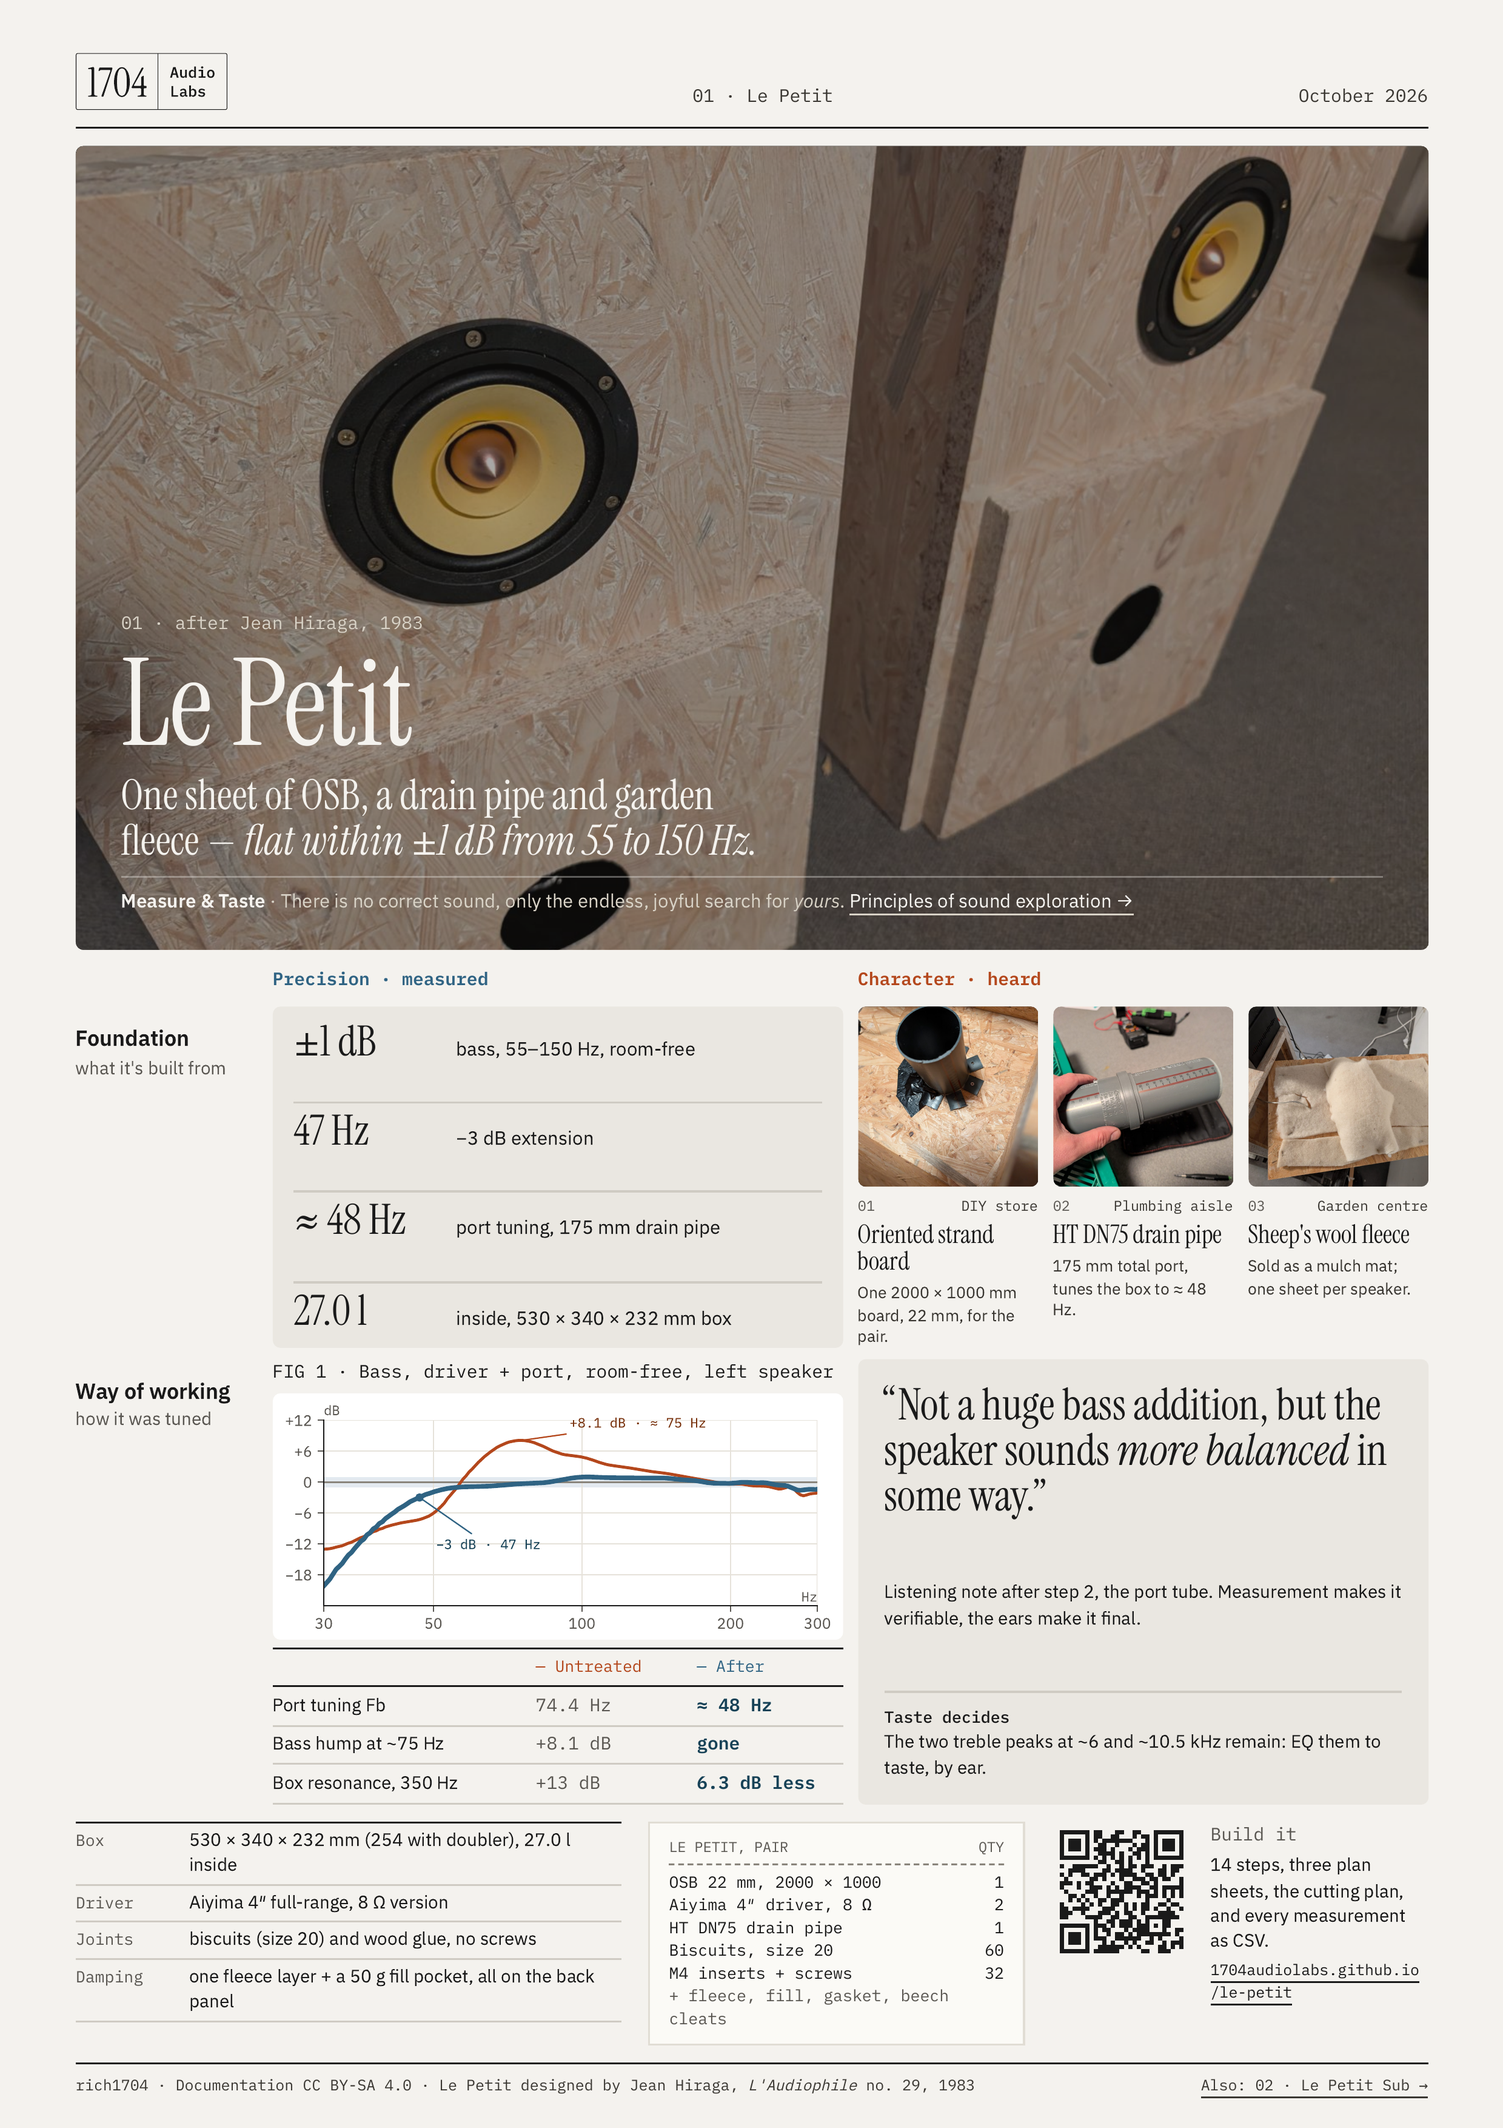
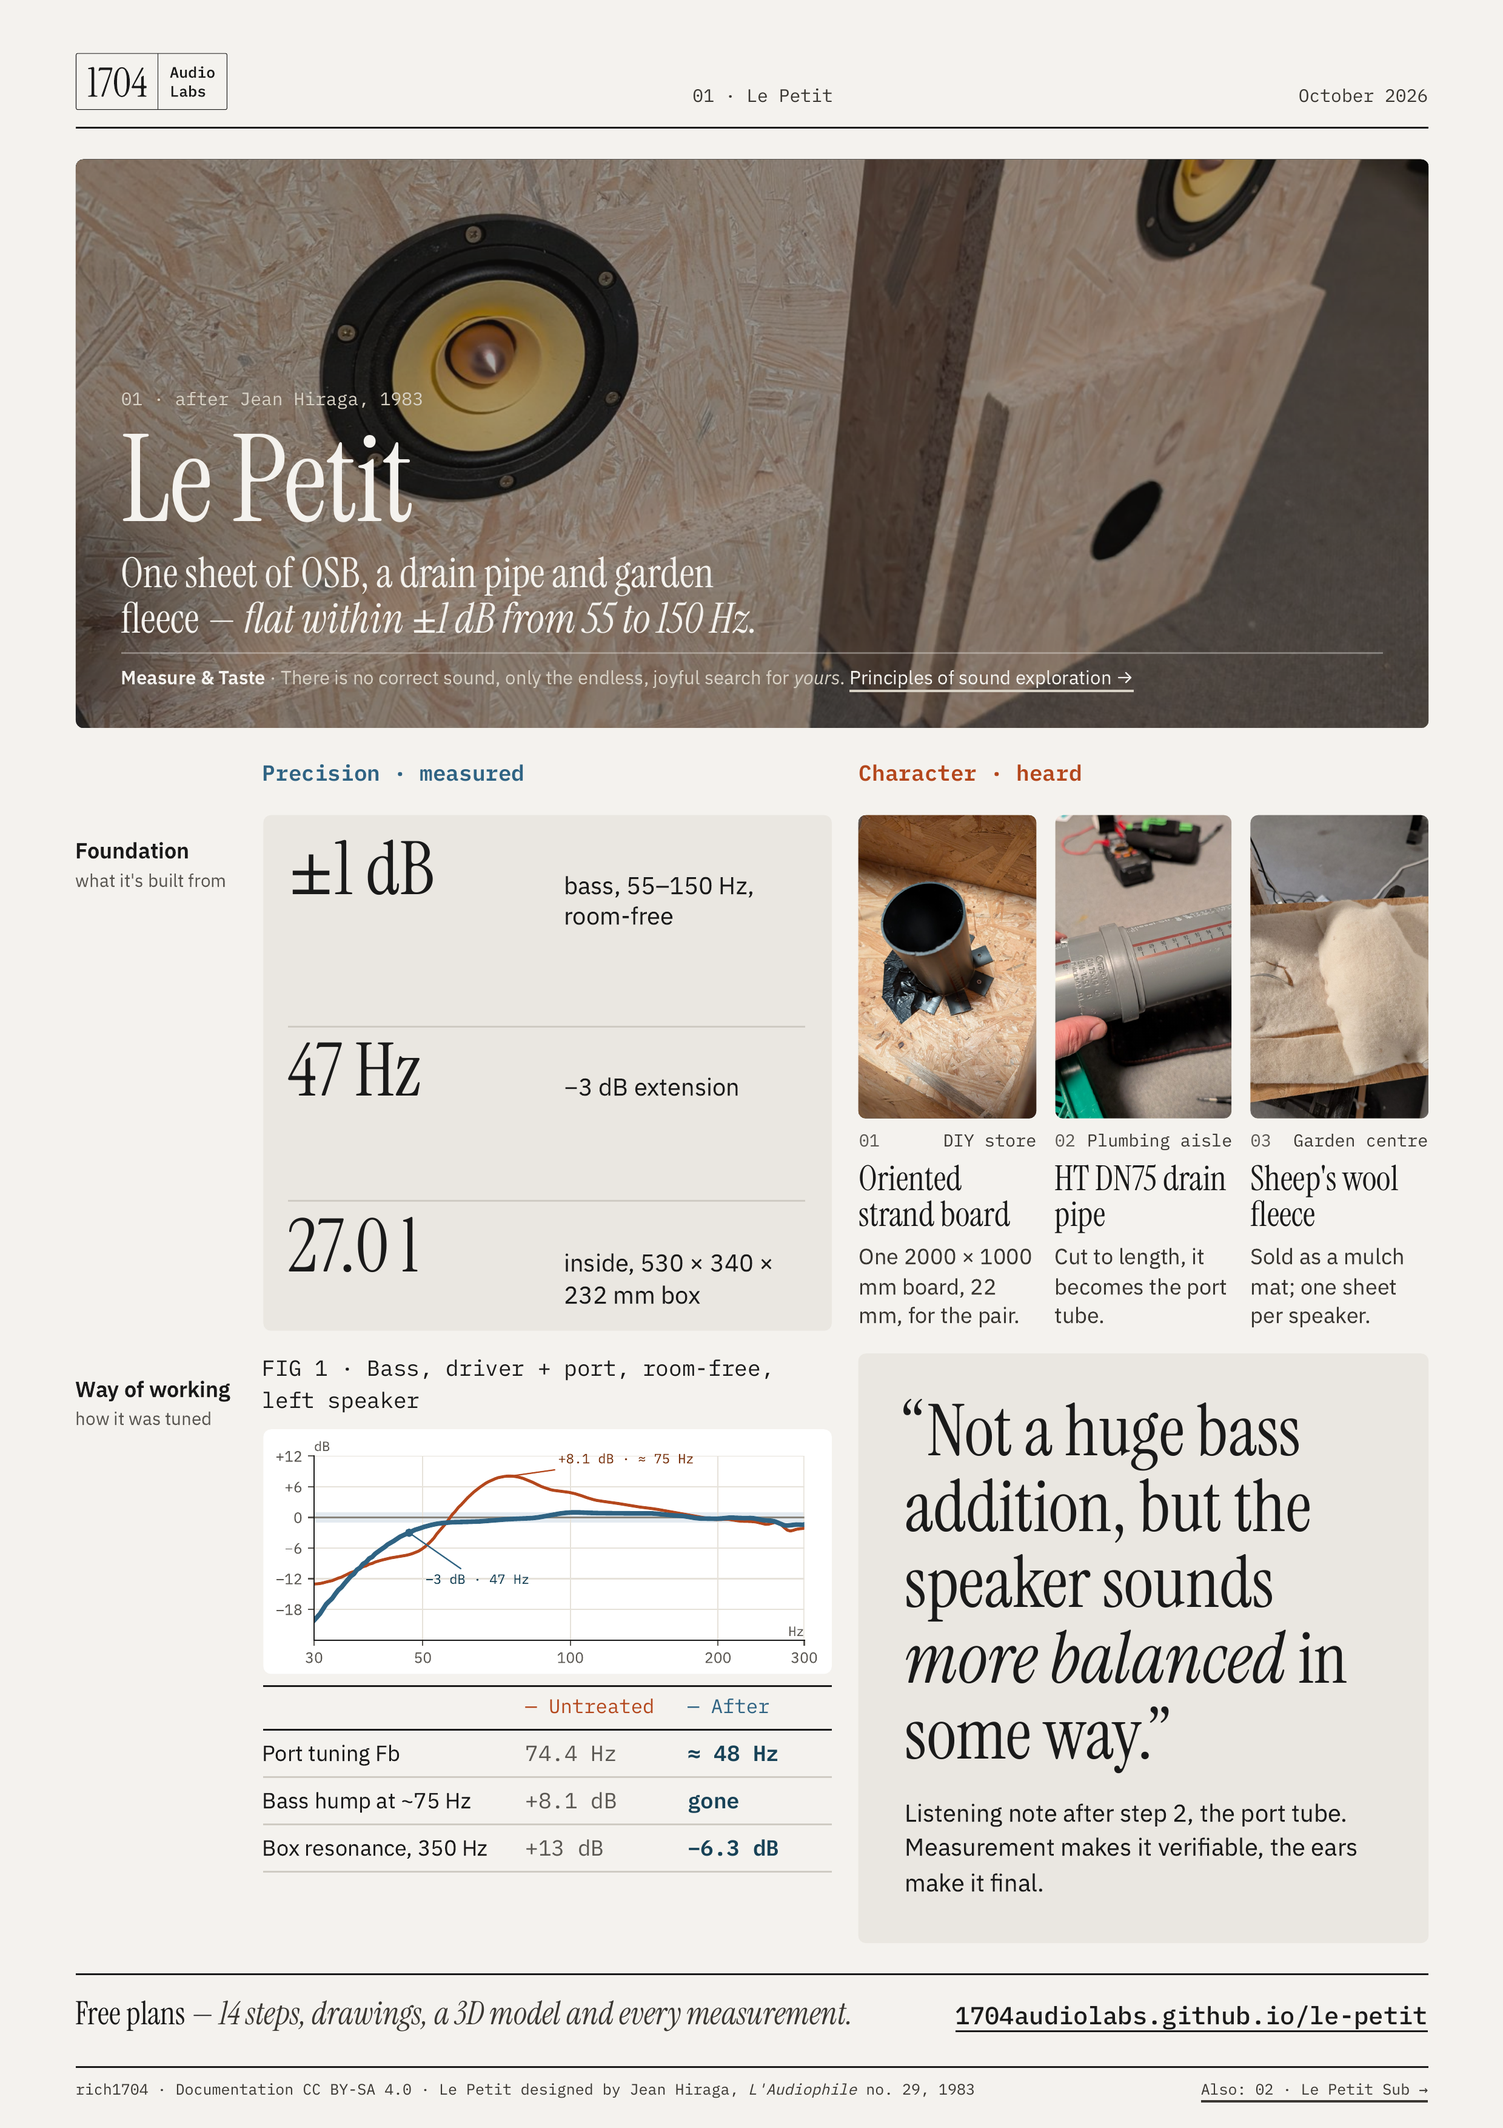
One-sheet: trimmed to spark interest — smaller cover, no QR, spec sheet or parts list, the URL in the footer, the content fills the page

diff --git a/docs/assets/one-sheet.css b/docs/assets/one-sheet.css
@@ -25,9 +25,9 @@ a:hover { color: var(--graphite); }
 .tools button:hover { color: var(--graphite); border-color: var(--graphite); }
 .wrap { container-type: inline-size; width: min(100% - 32px, 920px); margin: 16px auto 40px; }
 
-.sheet { --u: calc(100cqw / 794); width: 100cqw; aspect-ratio: 210 / 297; overflow: hidden; background: var(--paper);
+.sheet { --u: calc(100cqw / 794); --u0: calc(100cqw / 794); width: 100cqw; aspect-ratio: 210 / 297; overflow: hidden; background: var(--paper);
   padding: calc(28 * var(--u)) calc(40 * var(--u)) calc(16 * var(--u)); display: flex; flex-direction: column;
-  gap: calc(9 * var(--u)); font-size: calc(10.5 * var(--u)); line-height: 1.45; }
+  gap: calc(16 * var(--u)); font-size: calc(10.5 * var(--u)); line-height: 1.45; }
 .sheet p, .sheet h1, .sheet h2 { margin: 0; }
 .lab { font-family: var(--mono); font-size: calc(9.5 * var(--u)); color: var(--pencil); }
 .lab--p { color: var(--ink); }
@@ -41,7 +41,7 @@ a:hover { color: var(--graphite); }
 
 /* cover band: photo + the project's name and finding, the claim and the link to the principles on the hub.
    It takes up the height the project and the footer leave, like the website's cover. */
-.cover { position: relative; flex: 1 1 auto; min-height: calc(300 * var(--u)); border-radius: 4px; overflow: hidden;
+.cover { position: relative; flex: 0 0 auto; height: calc(300 * var(--u)); border-radius: 4px; overflow: hidden;
   background: var(--walnut); color: var(--on-dark); display: flex; flex-direction: column; justify-content: flex-end; }
 .cover img { position: absolute; inset: 0; width: 100%; height: 100%; object-fit: cover; opacity: .62; }
 .cover::before { content: ""; position: absolute; inset: 0; background: linear-gradient(180deg, rgba(30,28,25,.35) 0%,
@@ -60,35 +60,37 @@ a:hover { color: var(--graphite); }
 .cover__claim a:hover { color: var(--on-dark-muted); }
 
 /* the project's 2 x 2 grid: the principles' columns and rows, filled with evidence */
-.grid { display: grid; grid-template-columns: calc(96 * var(--u)) minmax(0, 1fr) minmax(0, 1fr);
-  gap: calc(6 * var(--u)) calc(8 * var(--u)); }
+/* the content block scales (--fill, set by the fit script in one-sheet.html) until it fills the page exactly */
+.applied { --u: calc(100cqw / 794 * var(--fill, 1)); flex: 0 0 auto; }
+.grid { display: grid; grid-template-columns: calc(84 * var(--u0)) minmax(0, 1fr) minmax(0, 1fr);
+  gap: calc(10 * var(--u)) calc(12 * var(--u)); }
 .col { font-family: var(--mono); font-size: calc(9.5 * var(--u)); font-weight: 600; padding: 0 0 calc(1 * var(--u)); }
 .col--p { color: var(--precision); } .col--c { color: var(--character); }
 .row { display: flex; flex-direction: column; gap: calc(1 * var(--u)); padding-top: calc(9 * var(--u)); }
-.row b { font-weight: 600; font-size: calc(11.5 * var(--u)); }
-.row span { font-size: calc(9.5 * var(--u)); color: var(--pencil); line-height: 1.3; }
+.row b { font-weight: 600; font-size: calc(11.5 * var(--u0)); }
+.row span { font-size: calc(9.5 * var(--u0)); color: var(--pencil); line-height: 1.3; }
 .cell { border-radius: 4px; padding: calc(8 * var(--u)) calc(11 * var(--u)); display: flex; flex-direction: column;
   gap: calc(4 * var(--u)); min-width: 0; }
 .tint-p, .tint-c { background: var(--tint); color: var(--ink); }
 
 /* key figures */
 .figures { gap: calc(6 * var(--u)); justify-content: space-between; }
-.figures p { display: grid; grid-template-columns: calc(78 * var(--u)) minmax(0, 1fr); gap: calc(8 * var(--u));
+.figures p { display: grid; grid-template-columns: calc(112 * var(--u)) minmax(0, 1fr); gap: calc(8 * var(--u));
   align-items: baseline; border-top: 1px solid var(--rule); padding-top: calc(4 * var(--u)); }
 .figures p:first-child { border-top: 0; padding-top: 0; }
-.figures strong { font-family: var(--display); font-weight: 400; font-size: calc(22 * var(--u)); line-height: 1; white-space: nowrap; }
-.figures span { font-size: calc(10 * var(--u)); line-height: 1.3; }
+.figures strong { font-family: var(--display); font-weight: 400; font-size: calc(32 * var(--u)); line-height: 1; white-space: nowrap; }
+.figures span { font-size: calc(10.5 * var(--u)); line-height: 1.3; }
 
 /* plates: materials staged like catalogue objects */
 .plates { display: grid; grid-template-columns: repeat(3, minmax(0, 1fr)); gap: calc(8 * var(--u)); padding: 0; }
 .plate { margin: 0; display: flex; flex-direction: column; gap: calc(3 * var(--u)); min-width: 0; }
-.plate img { width: 100%; aspect-ratio: 1; object-fit: cover; border-radius: 4px; display: block; background: var(--walnut); }
+.plate img { width: 100%; height: calc(132 * var(--u)); object-fit: cover; border-radius: 4px; display: block; background: var(--walnut); }
 .plate img.crop-floor { object-position: 50% 92%; }
 .plate__meta { display: flex; justify-content: space-between; gap: calc(4 * var(--u)); font-family: var(--mono);
   font-size: calc(7.5 * var(--u)); white-space: nowrap; color: var(--pencil); padding-top: calc(2 * var(--u)); }
 .plate__meta span:last-child { color: var(--graphite); text-align: right; }
-.plate__title { font-family: var(--display); font-size: calc(13.5 * var(--u)); line-height: 1.05; }
-.plate__text { font-size: calc(8.5 * var(--u)); line-height: 1.35; color: var(--graphite); }
+.plate__title { font-family: var(--display); font-size: calc(15 * var(--u)); line-height: 1.05; }
+.plate__text { font-size: calc(9.5 * var(--u)); line-height: 1.35; color: var(--graphite); }
 
 /* figure + before/after */
 .fig { padding: 0; gap: calc(5 * var(--u)); }
@@ -110,28 +112,20 @@ a:hover { color: var(--graphite); }
 .spec p > span:first-child { font-family: var(--mono); font-size: calc(8.5 * var(--u)); color: var(--pencil); }
 
 /* listening note */
-.note { justify-content: space-between; gap: calc(10 * var(--u)); padding: calc(12 * var(--u)) calc(14 * var(--u)); }
-.note__quote { font-family: var(--display); font-size: calc(23 * var(--u)); line-height: 1.06; }
-.note__text { font-size: calc(9.5 * var(--u)); line-height: 1.45; }
+.note { justify-content: space-between; gap: calc(10 * var(--u)); padding: calc(18 * var(--u)) calc(20 * var(--u)); }
+.note__quote { font-family: var(--display); font-size: calc(31 * var(--u)); line-height: 1.06; }
+.note__text { font-size: calc(10.5 * var(--u)); line-height: 1.45; }
 .note__next { font-size: calc(9.5 * var(--u)); line-height: 1.45; padding-top: calc(7 * var(--u));
   border-top: 1px solid var(--rule); }
 .note__next b { font-family: var(--mono); font-weight: 500; font-size: calc(8.5 * var(--u)); display: block; }
 
-/* footer: spec, receipt, build it */
-.foot { display: grid; grid-template-columns: minmax(0, 1.45fr) minmax(0, 1fr) minmax(0, 1fr); gap: calc(14 * var(--u));
-  align-items: start; margin-top: auto; }
-.receipt { background: var(--receipt); border: 1px solid var(--rule-soft); padding: calc(7 * var(--u)) calc(10 * var(--u));
-  font-family: var(--mono); font-size: calc(8.5 * var(--u)); line-height: 1.42; }
-.receipt p { display: grid; grid-template-columns: minmax(0, 1fr) auto; gap: calc(8 * var(--u)); }
-.receipt .head { font-size: calc(7.5 * var(--u)); color: var(--pencil); padding-bottom: calc(3 * var(--u));
-  margin-bottom: calc(3 * var(--u)); border-bottom: 1px dashed var(--reference); }
-.receipt .total { font-weight: 500; padding-top: calc(3 * var(--u)); margin-top: calc(3 * var(--u)); border-top: 1px dashed var(--reference); }
-.receipt .extra { color: var(--pencil); }
-.build { display: grid; grid-template-columns: calc(74 * var(--u)) minmax(0, 1fr); gap: calc(10 * var(--u)); align-items: start; }
-.build img { width: 100%; display: block; }
-.build p { font-size: calc(9.5 * var(--u)); line-height: 1.4; }
-.build .lab { display: block; margin-bottom: calc(3 * var(--u)); }
-.build .url { font-family: var(--mono); font-size: calc(8 * var(--u)); overflow-wrap: anywhere; margin-top: calc(4 * var(--u)); display: block; }
+/* footer: where to get it — one line and the address, nothing to scan */
+.getit { margin-top: auto; display: flex; justify-content: space-between; align-items: baseline; gap: calc(16 * var(--u));
+  flex-wrap: wrap; padding-top: calc(10 * var(--u)); border-top: 1px solid var(--ink); }
+.getit__line { font-family: var(--display); font-size: calc(17 * var(--u)); line-height: 1.2; flex: 1 1 calc(380 * var(--u)); }
+.getit__line i { color: var(--graphite); }
+.getit__url { font-family: var(--mono); font-weight: 500; font-size: calc(13 * var(--u)); color: var(--ink); white-space: nowrap; }
+.fig__cap { font-size: calc(9.5 * var(--u)); line-height: 1.4; color: var(--graphite); }
 .colophon { display: flex; justify-content: space-between; gap: calc(12 * var(--u)); flex-wrap: wrap;
   padding-top: calc(6 * var(--u)); border-top: 1px solid var(--ink); font-family: var(--mono);
   font-size: calc(8 * var(--u)); color: var(--graphite); }
@@ -152,8 +146,10 @@ a:hover { color: var(--graphite); }
   .applied .cell { padding-left: 14px; padding-right: 14px; }
   .applied .plates, .applied .fig { padding: 0; }
   .applied .row b::after { content: attr(data-cols); font-family: var(--mono); font-weight: 400; color: var(--pencil); margin-left: 8px; font-size: 11px; }
-  .foot { grid-template-columns: minmax(0, 1fr); gap: 20px; }
-  .build { grid-template-columns: 88px minmax(0, 1fr); }
+  .getit__url { font-size: 15px; }
+  .applied { --u: 1.3px; }
+  .sheet { --u0: 1.3px; }
+  .plate img { height: auto; aspect-ratio: 4 / 5; }
 }
 
 /* print: exactly one A4 page */

diff --git a/overrides/one-sheet.html b/overrides/one-sheet.html
@@ -31,5 +31,28 @@
 {{ page.content }}
 </article>
 </div>
+<script>
+/* Fill the A4 page: grow the content block (--fill) until the sheet's content just fits its height. */
+(function () {
+  var sheet = document.querySelector('.sheet'), block = document.querySelector('.applied');
+  if (!sheet || !block) return;
+  function fits() { return sheet.scrollHeight <= sheet.clientHeight + 0.5; }
+  function fit() {
+    if (matchMedia('(max-width: 700px)').matches) { block.style.removeProperty('--fill'); return; }
+    var lo = 1, hi = 1.6;
+    block.style.setProperty('--fill', lo);
+    for (var i = 0; i < 18; i++) {
+      var mid = (lo + hi) / 2; block.style.setProperty('--fill', mid);
+      if (fits()) lo = mid; else hi = mid;
+    }
+    block.style.setProperty('--fill', lo);
+  }
+  (document.fonts ? document.fonts.ready : Promise.resolve()).then(function () {
+    var imgs = [].slice.call(document.images).map(function (im) { return im.complete ? 0 : new Promise(function (r) { im.onload = im.onerror = r; }); });
+    Promise.all(imgs).then(fit);
+  });
+  addEventListener('resize', fit); addEventListener('beforeprint', fit);
+})();
+</script>
 </body>
 </html>

diff --git a/docs/one-sheet.md b/docs/one-sheet.md
@@ -21,12 +21,11 @@ sheet_label: One-sheet — Le Petit
 <div class="cell tint-p figures">
 <p><strong>±1 dB</strong><span>bass, 55–150 Hz, room-free</span></p>
 <p><strong>47 Hz</strong><span>−3 dB extension</span></p>
-<p><strong>≈ 48 Hz</strong><span>port tuning, 175 mm drain pipe</span></p>
 <p><strong>27.0 l</strong><span>inside, 530 × 340 × 232 mm box</span></p>
 </div>
 <div class="cell plates">
 <figure class="plate"><img class="crop-floor" src="../assets/photos/tube-mounted-inside.jpg" alt="Oriented strand board: the inside of the box"><span class="plate__meta"><span>01</span><span>DIY store</span></span><span class="plate__title">Oriented strand board</span><span class="plate__text">One 2000 × 1000 mm board, 22 mm, for the pair.</span></figure>
-<figure class="plate"><img src="../assets/photos/ht-dn75-pipe.jpg" alt="The HT DN75 drain pipe used as the port tube"><span class="plate__meta"><span>02</span><span>Plumbing aisle</span></span><span class="plate__title">HT DN75 drain pipe</span><span class="plate__text">175 mm total port, tunes the box to ≈ 48 Hz.</span></figure>
+<figure class="plate"><img src="../assets/photos/ht-dn75-pipe.jpg" alt="The HT DN75 drain pipe used as the port tube"><span class="plate__meta"><span>02</span><span>Plumbing aisle</span></span><span class="plate__title">HT DN75 drain pipe</span><span class="plate__text">Cut to length, it becomes the port tube.</span></figure>
 <figure class="plate"><img src="../assets/photos/damping-L-09-pocket-50g.jpg" alt="Sheep's wool garden fleece and the fill pocket on the back panel"><span class="plate__meta"><span>03</span><span>Garden centre</span></span><span class="plate__title">Sheep's wool fleece</span><span class="plate__text">Sold as a mulch mat; one sheet per speaker.</span></figure>
 </div>
 <div class="row"><b data-cols="measured · heard">Way of working</b><span>how it was tuned</span></div>
@@ -37,34 +36,16 @@ sheet_label: One-sheet — Le Petit
 <p><span></span><span class="b">— Untreated</span><span class="a">— After</span></p>
 <p><span>Port tuning Fb</span><span class="b">74.4 Hz</span><span class="a">≈ 48 Hz</span></p>
 <p><span>Bass hump at ~75 Hz</span><span class="b">+8.1 dB</span><span class="a">gone</span></p>
-<p><span>Box resonance, 350 Hz</span><span class="b">+13 dB</span><span class="a">6.3 dB less</span></p>
+<p><span>Box resonance, 350 Hz</span><span class="b">+13 dB</span><span class="a">−6.3 dB</span></p>
 </div>
 </div>
 <div class="cell tint-c note">
 <p class="note__quote">“Not a huge bass addition, but the speaker sounds <i>more balanced</i> in some way.”</p>
 <p class="note__text">Listening note after step 2, the port tube. Measurement makes it verifiable, the ears make it final.</p>
-<p class="note__next"><b>Taste decides</b>The two treble peaks at ~6 and ~10.5 kHz remain: EQ them to taste, by ear.</p>
 </div>
 </section>
-<footer class="foot">
-<div class="spec">
-<p><span>Box</span><span>530 × 340 × 232 mm (254 with doubler), 27.0 l inside</span></p>
-<p><span>Driver</span><span>Aiyima 4″ full-range, 8 Ω version</span></p>
-<p><span>Joints</span><span>biscuits (size 20) and wood glue, no screws</span></p>
-<p><span>Damping</span><span>one fleece layer + a 50 g fill pocket, all on the back panel</span></p>
-</div>
-<div class="receipt">
-<p class="head"><span>LE PETIT, PAIR</span><span>QTY</span></p>
-<p><span>OSB 22 mm, 2000 × 1000</span><span>1</span></p>
-<p><span>Aiyima 4″ driver, 8 Ω</span><span>2</span></p>
-<p><span>HT DN75 drain pipe</span><span>1</span></p>
-<p><span>Biscuits, size 20</span><span>60</span></p>
-<p><span>M4 inserts + screws</span><span>32</span></p>
-<p class="extra"><span>+ fleece, fill, gasket, beech cleats</span><span></span></p>
-</div>
-<div class="build">
-<img src="../assets/one-sheet-qr.svg" alt="QR code linking to 1704audiolabs.github.io/le-petit">
-<p><span class="lab">Build it</span>14 steps, three plan sheets, the cutting plan, and every measurement as CSV.<a class="url" href="https://1704audiolabs.github.io/le-petit/">1704audiolabs.github.io/<wbr>le-petit</a></p>
-</div>
+<footer class="getit">
+<p class="getit__line">Free plans — <i>14 steps, drawings, a 3D model and every measurement.</i></p>
+<a class="getit__url" href="https://1704audiolabs.github.io/le-petit/">1704audiolabs.github.io/le-petit</a>
 </footer>
 <p class="colophon"><span>rich1704 · Documentation CC BY-SA 4.0 · Le Petit designed by Jean Hiraga, <i>L'Audiophile</i> no. 29, 1983</span><a href="https://1704audiolabs.github.io/le-petit-sub/one-sheet/">Also: 02 · Le Petit Sub →</a></p>
